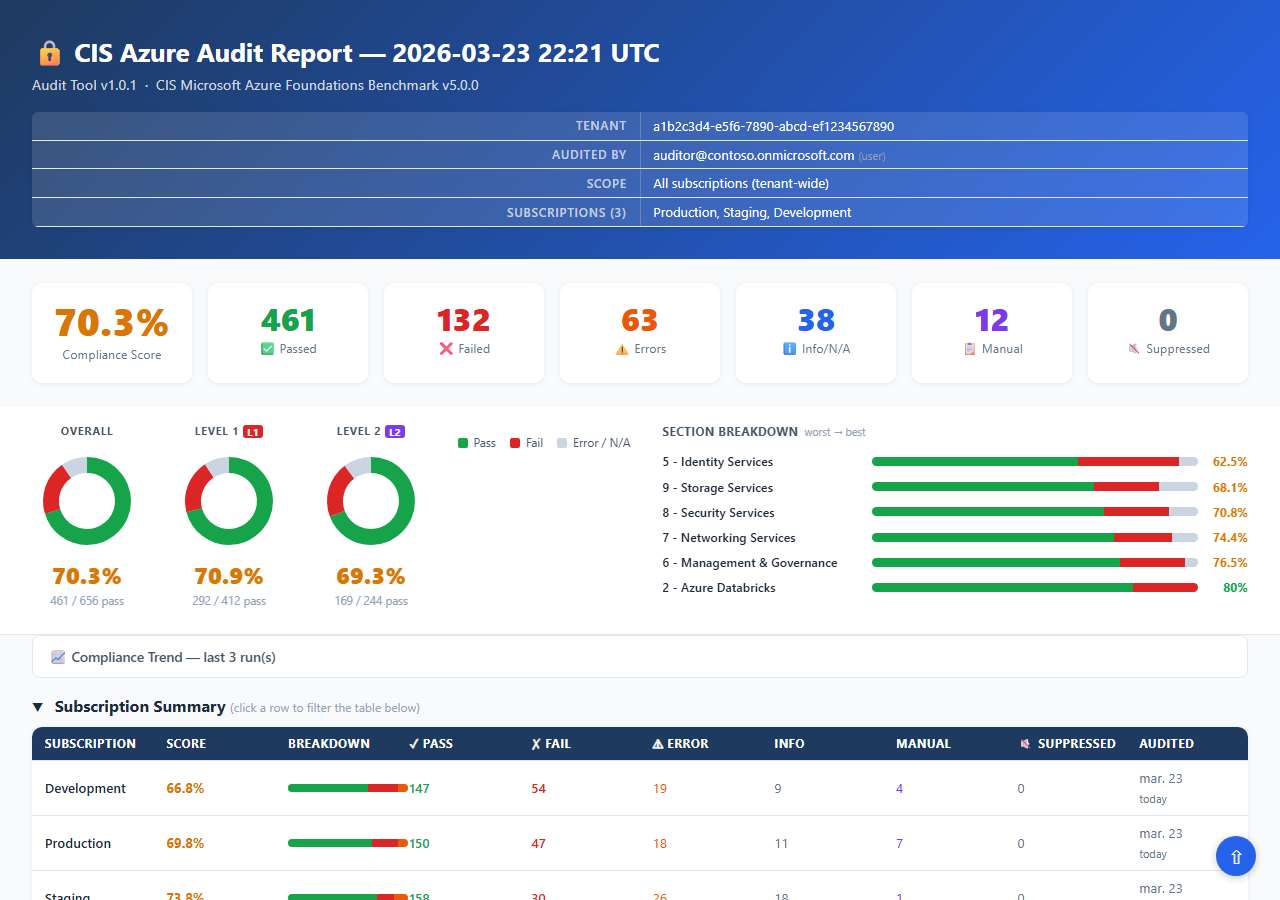
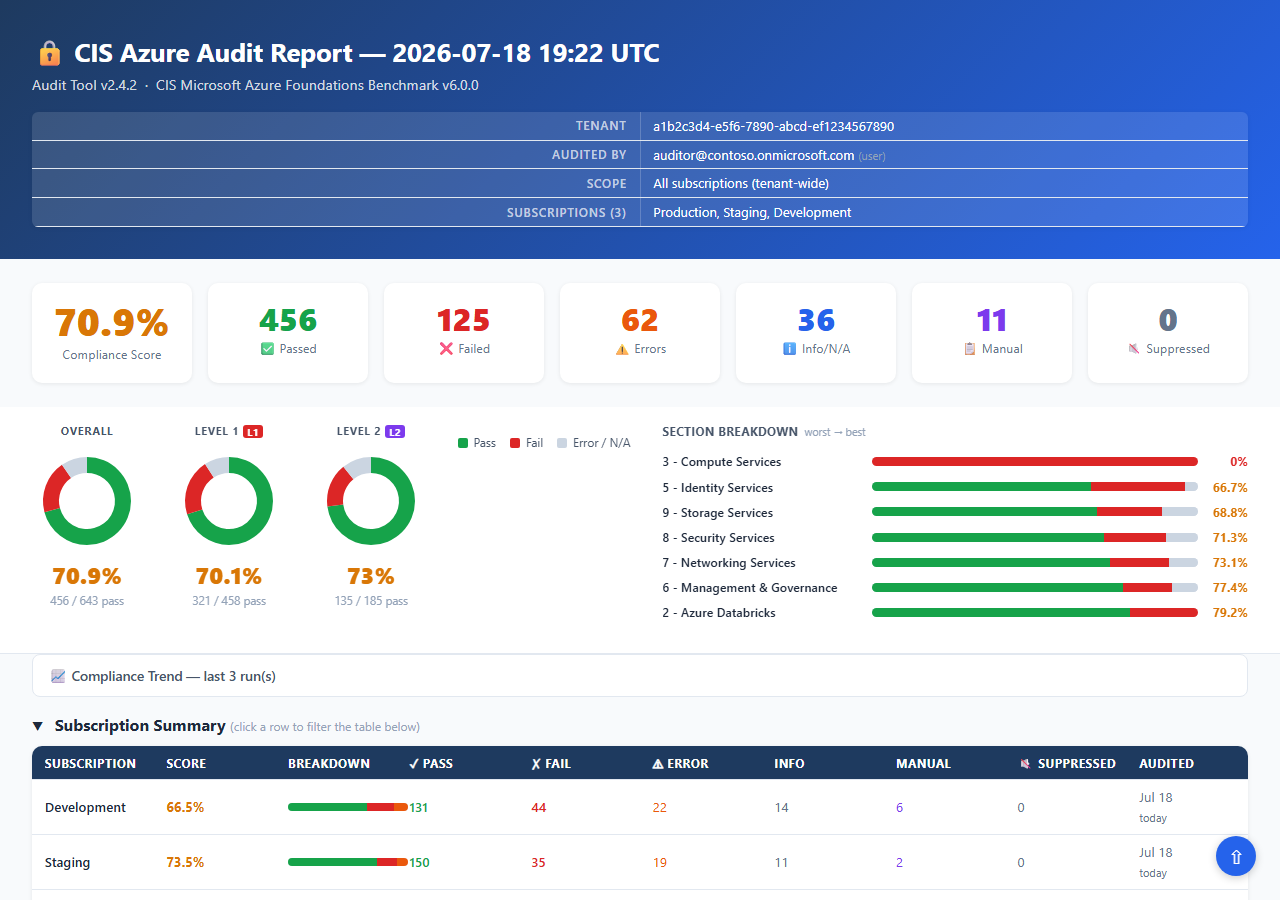
Add README demo GIF, refresh the sample report and dashboard screenshot (#89)
docs/demo.gif is a generated terminal replay of the real install ->
login -> audit flow (numbers from the live E2E run), ending on the
report dashboard; it replaces the static screenshot at the top of the
README. The sample report and dashboard PNG are regenerated from
current code - the old screenshot still showed the v1-era report
(Benchmark v5.0.0, locale-dependent dates). Cut 2.4.2.

diff --git a/docs/sample_report.html b/docs/sample_report.html
@@ -3,7 +3,7 @@
 <head>
 <meta charset="UTF-8">
 <meta name="viewport" content="width=device-width, initial-scale=1">
-<title>CIS Azure Audit Report &#8212; 2026-07-17 11:51 UTC</title>
+<title>CIS Azure Audit Report &#8212; 2026-07-18 19:22 UTC</title>
 <style>
 *, *::before, *::after { box-sizing: border-box; margin: 0; padding: 0; }
 body { font-family: -apple-system, BlinkMacSystemFont, 'Segoe UI', sans-serif;
@@ -167,8 +167,8 @@ footer { text-align: center; padding: 1.5rem; color: #94a3b8; font-size: .8rem; 
 <body>
 <a id="top"></a>
 <header>
-  <h1>&#x1F512; CIS Azure Audit Report &#8212; 2026-07-17 11:51 UTC</h1>
-  <p>Audit Tool v2.0.0 &nbsp;&middot;&nbsp; CIS Microsoft Azure Foundations Benchmark v6.0.0</p>
+  <h1>&#x1F512; CIS Azure Audit Report &#8212; 2026-07-18 19:22 UTC</h1>
+  <p>Audit Tool v2.4.2 &nbsp;&middot;&nbsp; CIS Microsoft Azure Foundations Benchmark v6.0.0</p>
   <div class="scope-info"><table><tr><th>Tenant</th><td>a1b2c3d4-e5f6-7890-abcd-ef1234567890</td></tr>
 <tr><th>Audited by</th><td>auditor@contoso.onmicrosoft.com <span style="color:#94a3b8;font-size:0.85em">(user)</span></td></tr>
 <tr><th>Scope</th><td>All subscriptions (tenant-wide)</td></tr>
@@ -266,9 +266,9 @@ footer { text-align: center; padding: 1.5rem; color: #94a3b8; font-size: .8rem; 
 <th>&#10003; Pass</th><th>&#10007; Fail</th><th>&#9888; Error</th>
 <th>Info</th><th>Manual</th><th>&#128263; Suppressed</th>
 <th>Audited</th>
-</tr></thead><tbody><tr class="sub-row" data-sub="Development"><td style="font-weight:600">Development</td><td><span style="color:#d97706;font-weight:700">66.5%</span></td><td><div class="sbar"><span style="width:66%;background:#16a34a"></span><span style="width:22%;background:#dc2626"></span><span style="width:12%;background:#ea580c"></span></div></td><td style="color:#16a34a;font-weight:600">131</td><td style="color:#dc2626;font-weight:600">44</td><td style="color:#ea580c">22</td><td style="color:#64748b">14</td><td style="color:#7c3aed">6</td><td style="color:#64748b">0</td><td style="color:#64748b;white-space:nowrap">jul. 17<br><small>today</small></td></tr>
-<tr class="sub-row" data-sub="Staging"><td style="font-weight:600">Staging</td><td><span style="color:#d97706;font-weight:700">73.5%</span></td><td><div class="sbar"><span style="width:74%;background:#16a34a"></span><span style="width:17%;background:#dc2626"></span><span style="width:9%;background:#ea580c"></span></div></td><td style="color:#16a34a;font-weight:600">150</td><td style="color:#dc2626;font-weight:600">35</td><td style="color:#ea580c">19</td><td style="color:#64748b">11</td><td style="color:#7c3aed">2</td><td style="color:#64748b">0</td><td style="color:#64748b;white-space:nowrap">jul. 17<br><small>today</small></td></tr>
-<tr class="sub-row" data-sub="Production"><td style="font-weight:600">Production</td><td><span style="color:#d97706;font-weight:700">74.3%</span></td><td><div class="sbar"><span style="width:74%;background:#16a34a"></span><span style="width:17%;background:#dc2626"></span><span style="width:9%;background:#ea580c"></span></div></td><td style="color:#16a34a;font-weight:600">153</td><td style="color:#dc2626;font-weight:600">36</td><td style="color:#ea580c">17</td><td style="color:#64748b">10</td><td style="color:#7c3aed">1</td><td style="color:#64748b">0</td><td style="color:#64748b;white-space:nowrap">jul. 17<br><small>today</small></td></tr>
+</tr></thead><tbody><tr class="sub-row" data-sub="Development"><td style="font-weight:600">Development</td><td><span style="color:#d97706;font-weight:700">66.5%</span></td><td><div class="sbar"><span style="width:66%;background:#16a34a"></span><span style="width:22%;background:#dc2626"></span><span style="width:12%;background:#ea580c"></span></div></td><td style="color:#16a34a;font-weight:600">131</td><td style="color:#dc2626;font-weight:600">44</td><td style="color:#ea580c">22</td><td style="color:#64748b">14</td><td style="color:#7c3aed">6</td><td style="color:#64748b">0</td><td style="color:#64748b;white-space:nowrap">Jul 18<br><small>today</small></td></tr>
+<tr class="sub-row" data-sub="Staging"><td style="font-weight:600">Staging</td><td><span style="color:#d97706;font-weight:700">73.5%</span></td><td><div class="sbar"><span style="width:74%;background:#16a34a"></span><span style="width:17%;background:#dc2626"></span><span style="width:9%;background:#ea580c"></span></div></td><td style="color:#16a34a;font-weight:600">150</td><td style="color:#dc2626;font-weight:600">35</td><td style="color:#ea580c">19</td><td style="color:#64748b">11</td><td style="color:#7c3aed">2</td><td style="color:#64748b">0</td><td style="color:#64748b;white-space:nowrap">Jul 18<br><small>today</small></td></tr>
+<tr class="sub-row" data-sub="Production"><td style="font-weight:600">Production</td><td><span style="color:#d97706;font-weight:700">74.3%</span></td><td><div class="sbar"><span style="width:74%;background:#16a34a"></span><span style="width:17%;background:#dc2626"></span><span style="width:9%;background:#ea580c"></span></div></td><td style="color:#16a34a;font-weight:600">153</td><td style="color:#dc2626;font-weight:600">36</td><td style="color:#ea580c">17</td><td style="color:#64748b">10</td><td style="color:#7c3aed">1</td><td style="color:#64748b">0</td><td style="color:#64748b;white-space:nowrap">Jul 18<br><small>today</small></td></tr>
 </tbody></table>
 </div></div>
 
@@ -996,7 +996,7 @@ footer { text-align: center; padding: 1.5rem; color: #94a3b8; font-size: .8rem; 
 <a href="#top" id="back-top" title="Back to top">&#8679;</a>
 <footer>
   CIS Microsoft Azure Foundations Benchmark v6.0.0 &nbsp;&middot;&nbsp;
-  Tool v2.0.0 &nbsp;&middot;&nbsp;
+  Tool v2.4.2 &nbsp;&middot;&nbsp;
   Compliance score = PASS / (PASS + FAIL + ERROR); INFO, MANUAL and SUPPRESSED checks are excluded.
   Manual controls require separate review per the CIS benchmark document.
 </footer>
@@ -1010,7 +1010,7 @@ footer { text-align: center; padding: 1.5rem; color: #94a3b8; font-size: .8rem; 
   var JS_COUNTS   = {"PASS":456,"FAIL":125,"ERROR":62};
   var JS_L1       = {"pass":321,"fail":95,"error":42};
   var JS_L2       = {"pass":135,"fail":30,"error":20};
-  var JS_SECTIONS = {"8 - Security Services":{"pass":122,"fail":33,"error":16,"score":71.3},"2 - Azure Databricks":{"pass":19,"fail":5,"error":0,"score":79.2},"9 - Storage Services":{"pass":203,"fail":58,"error":34,"score":68.8},"7 - Networking Services":{"pass":57,"fail":14,"error":7,"score":73.1},"6 - Management & Governance":{"pass":41,"fail":8,"error":4,"score":77.4},"5 - Identity Services":{"pass":14,"fail":6,"error":1,"score":66.7},"3 - Compute Services":{"pass":0,"fail":1,"error":0,"score":0.0}};
+  var JS_SECTIONS = {"8 - Security Services":{"pass":122,"fail":33,"error":16,"score":71.3},"7 - Networking Services":{"pass":57,"fail":14,"error":7,"score":73.1},"5 - Identity Services":{"pass":14,"fail":6,"error":1,"score":66.7},"3 - Compute Services":{"pass":0,"fail":1,"error":0,"score":0.0},"9 - Storage Services":{"pass":203,"fail":58,"error":34,"score":68.8},"6 - Management & Governance":{"pass":41,"fail":8,"error":4,"score":77.4},"2 - Azure Databricks":{"pass":19,"fail":5,"error":0,"score":79.2}};
   var subF = '';
   var _collapsed = {};
 

diff --git a/CHANGELOG.md b/CHANGELOG.md
@@ -4,7 +4,15 @@ All notable changes to CISAzureBenchmark-PS are documented here.
 Format: [Keep a Changelog](https://keepachangelog.com/en/1.1.0/) · Versioning: [SemVer](https://semver.org/).
 For compliance users the key question is *which controls changed* — every entry calls that out explicitly.
 
-## [Unreleased]
+## [2.4.2] — 2026-07-18
+
+### Added
+
+- **Demo GIF in the README** (`docs/demo.gif`): a terminal replay of the real install →
+  login → audit flow (actual numbers from the live E2E run), ending on the report dashboard.
+- **Dashboard screenshot refreshed** (`docs/sample_report_dashboard.png`): the old image
+  showed the v1-era report (Benchmark v5.0.0, "Audit Tool v1.0.1", Danish month names);
+  it is now a capture of the current sample report.
 
 ### Fixed
 
@@ -278,7 +286,7 @@ Initial public release.
 - Checkpoint save/resume per subscription; `-ReportOnly` regeneration; run history with trend
   chart; adaptive parallel execution; permission preflight; Pester suite + PSScriptAnalyzer CI.
 
-[Unreleased]: https://github.com/vegazbabz/CISAzureBenchmark-PS/compare/v2.4.1...HEAD
+[2.4.2]: https://github.com/vegazbabz/CISAzureBenchmark-PS/compare/v2.4.1...v2.4.2
 [2.4.1]: https://github.com/vegazbabz/CISAzureBenchmark-PS/compare/v2.4.0...v2.4.1
 [2.4.0]: https://github.com/vegazbabz/CISAzureBenchmark-PS/compare/v2.3.1...v2.4.0
 [2.3.1]: https://github.com/vegazbabz/CISAzureBenchmark-PS/compare/v2.3.0...v2.3.1

diff --git a/README.md b/README.md
@@ -13,9 +13,9 @@
 >
 > **[🎯 Need a target environment?](https://www.powershellgallery.com/packages/AzureDemoEnvironment)** — `Install-PSResource AzureDemoEnvironment` deploys a complete multi-tier demo environment (Azure defaults or CIS/MCSB-hardened) to audit and compare.
 
-![Sample report dashboard](docs/sample_report_dashboard.png)
+![Demo: one-command install, audit run, HTML report](docs/demo.gif)
 
-**Version:** 2.4.1
+**Version:** 2.4.2
 **Benchmark:** [CIS Microsoft Azure Foundations Benchmark v6.0.0](https://www.cisecurity.org/benchmark/azure) (April 2026)
 **Coverage:** 93 automated controls across 7 sections · 34 manual controls noted in output (127 total)
 
@@ -958,6 +958,6 @@ This tool is not affiliated with, endorsed by, or approved by CIS.
 
 [MIT](LICENSE)
 
-**Version:** 2.4.1
+**Version:** 2.4.2
 **Benchmark:** CIS Microsoft Azure Foundations Benchmark v6.0.0 (April 2026)
 **Coverage:** 93 automated controls across 7 sections · 34 manual controls noted in output (127 total)
